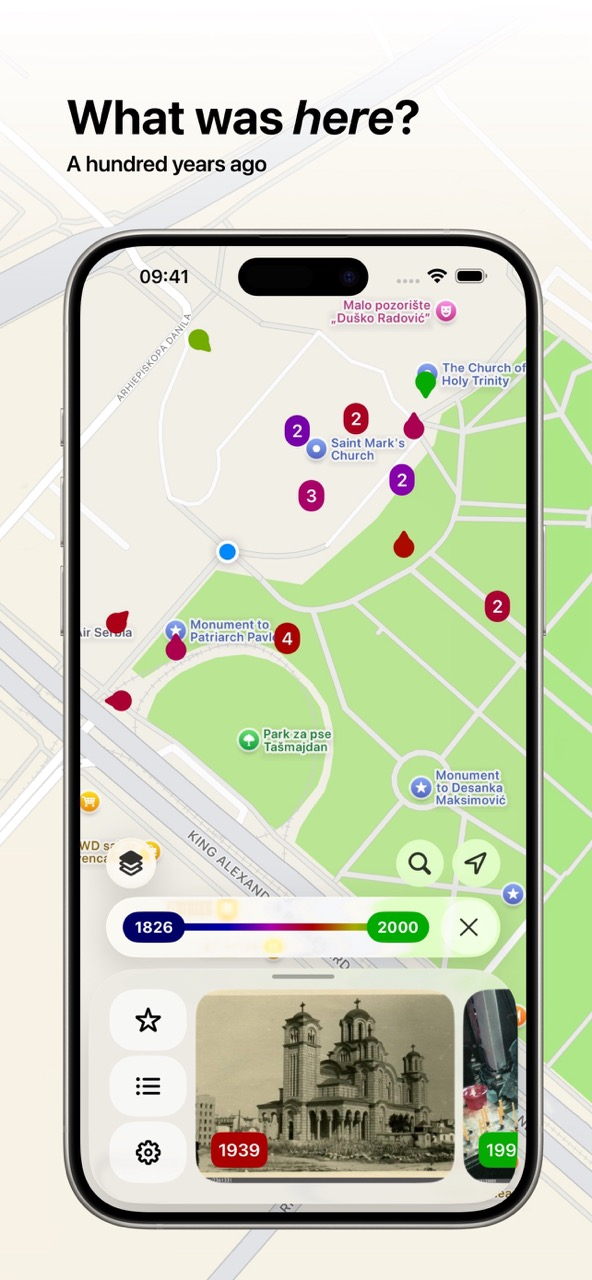
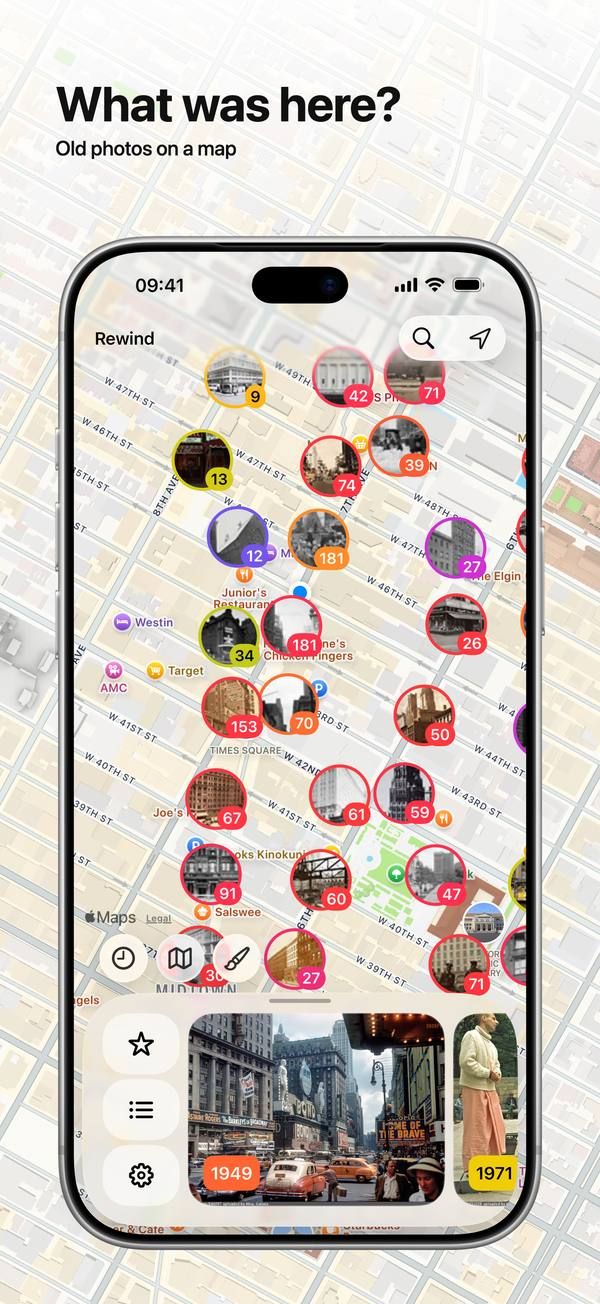
Update README screenshots to the 1.6 App Store set
Six English iPhone 6.9" screenshots in App Store order, 600 px wide
JPEGs (136-145 KB each). Drops the four old ones nothing references.

Claude-Session: https://claude.ai/code/session_01RZPumBnskeE8ktUXA6bQrg

diff --git a/README.md b/README.md
@@ -18,11 +18,12 @@ Also in TestFlight: https://testflight.apple.com/join/vbJFFZgD
 ### Screenshots
 
 <p align="leading">
-  <img src="screenshots/phone/en/jpgs/time-travel-app.jpeg" width="19%" />
-  <img src="screenshots/phone/en/jpgs/what-was-here.jpeg" width="19%" />
-  <img src="screenshots/phone/en/jpgs/explore-the-past.jpeg" width="19%" />
-  <img src="screenshots/phone/en/jpgs/moments-you-love.jpeg" width="19%" />
-  <img src="screenshots/phone/en/jpgs/compare.jpeg" width="19%" />
+  <img src="screenshots/phone/en/jpgs/what-was-here.jpeg" width="15%" />
+  <img src="screenshots/phone/en/jpgs/colorize.jpeg" width="15%" />
+  <img src="screenshots/phone/en/jpgs/then-and-now.jpeg" width="15%" />
+  <img src="screenshots/phone/en/jpgs/time-travel.jpeg" width="15%" />
+  <img src="screenshots/phone/en/jpgs/translate.jpeg" width="15%" />
+  <img src="screenshots/phone/en/jpgs/paintings.jpeg" width="15%" />
 </p>
 
 ### Availability
